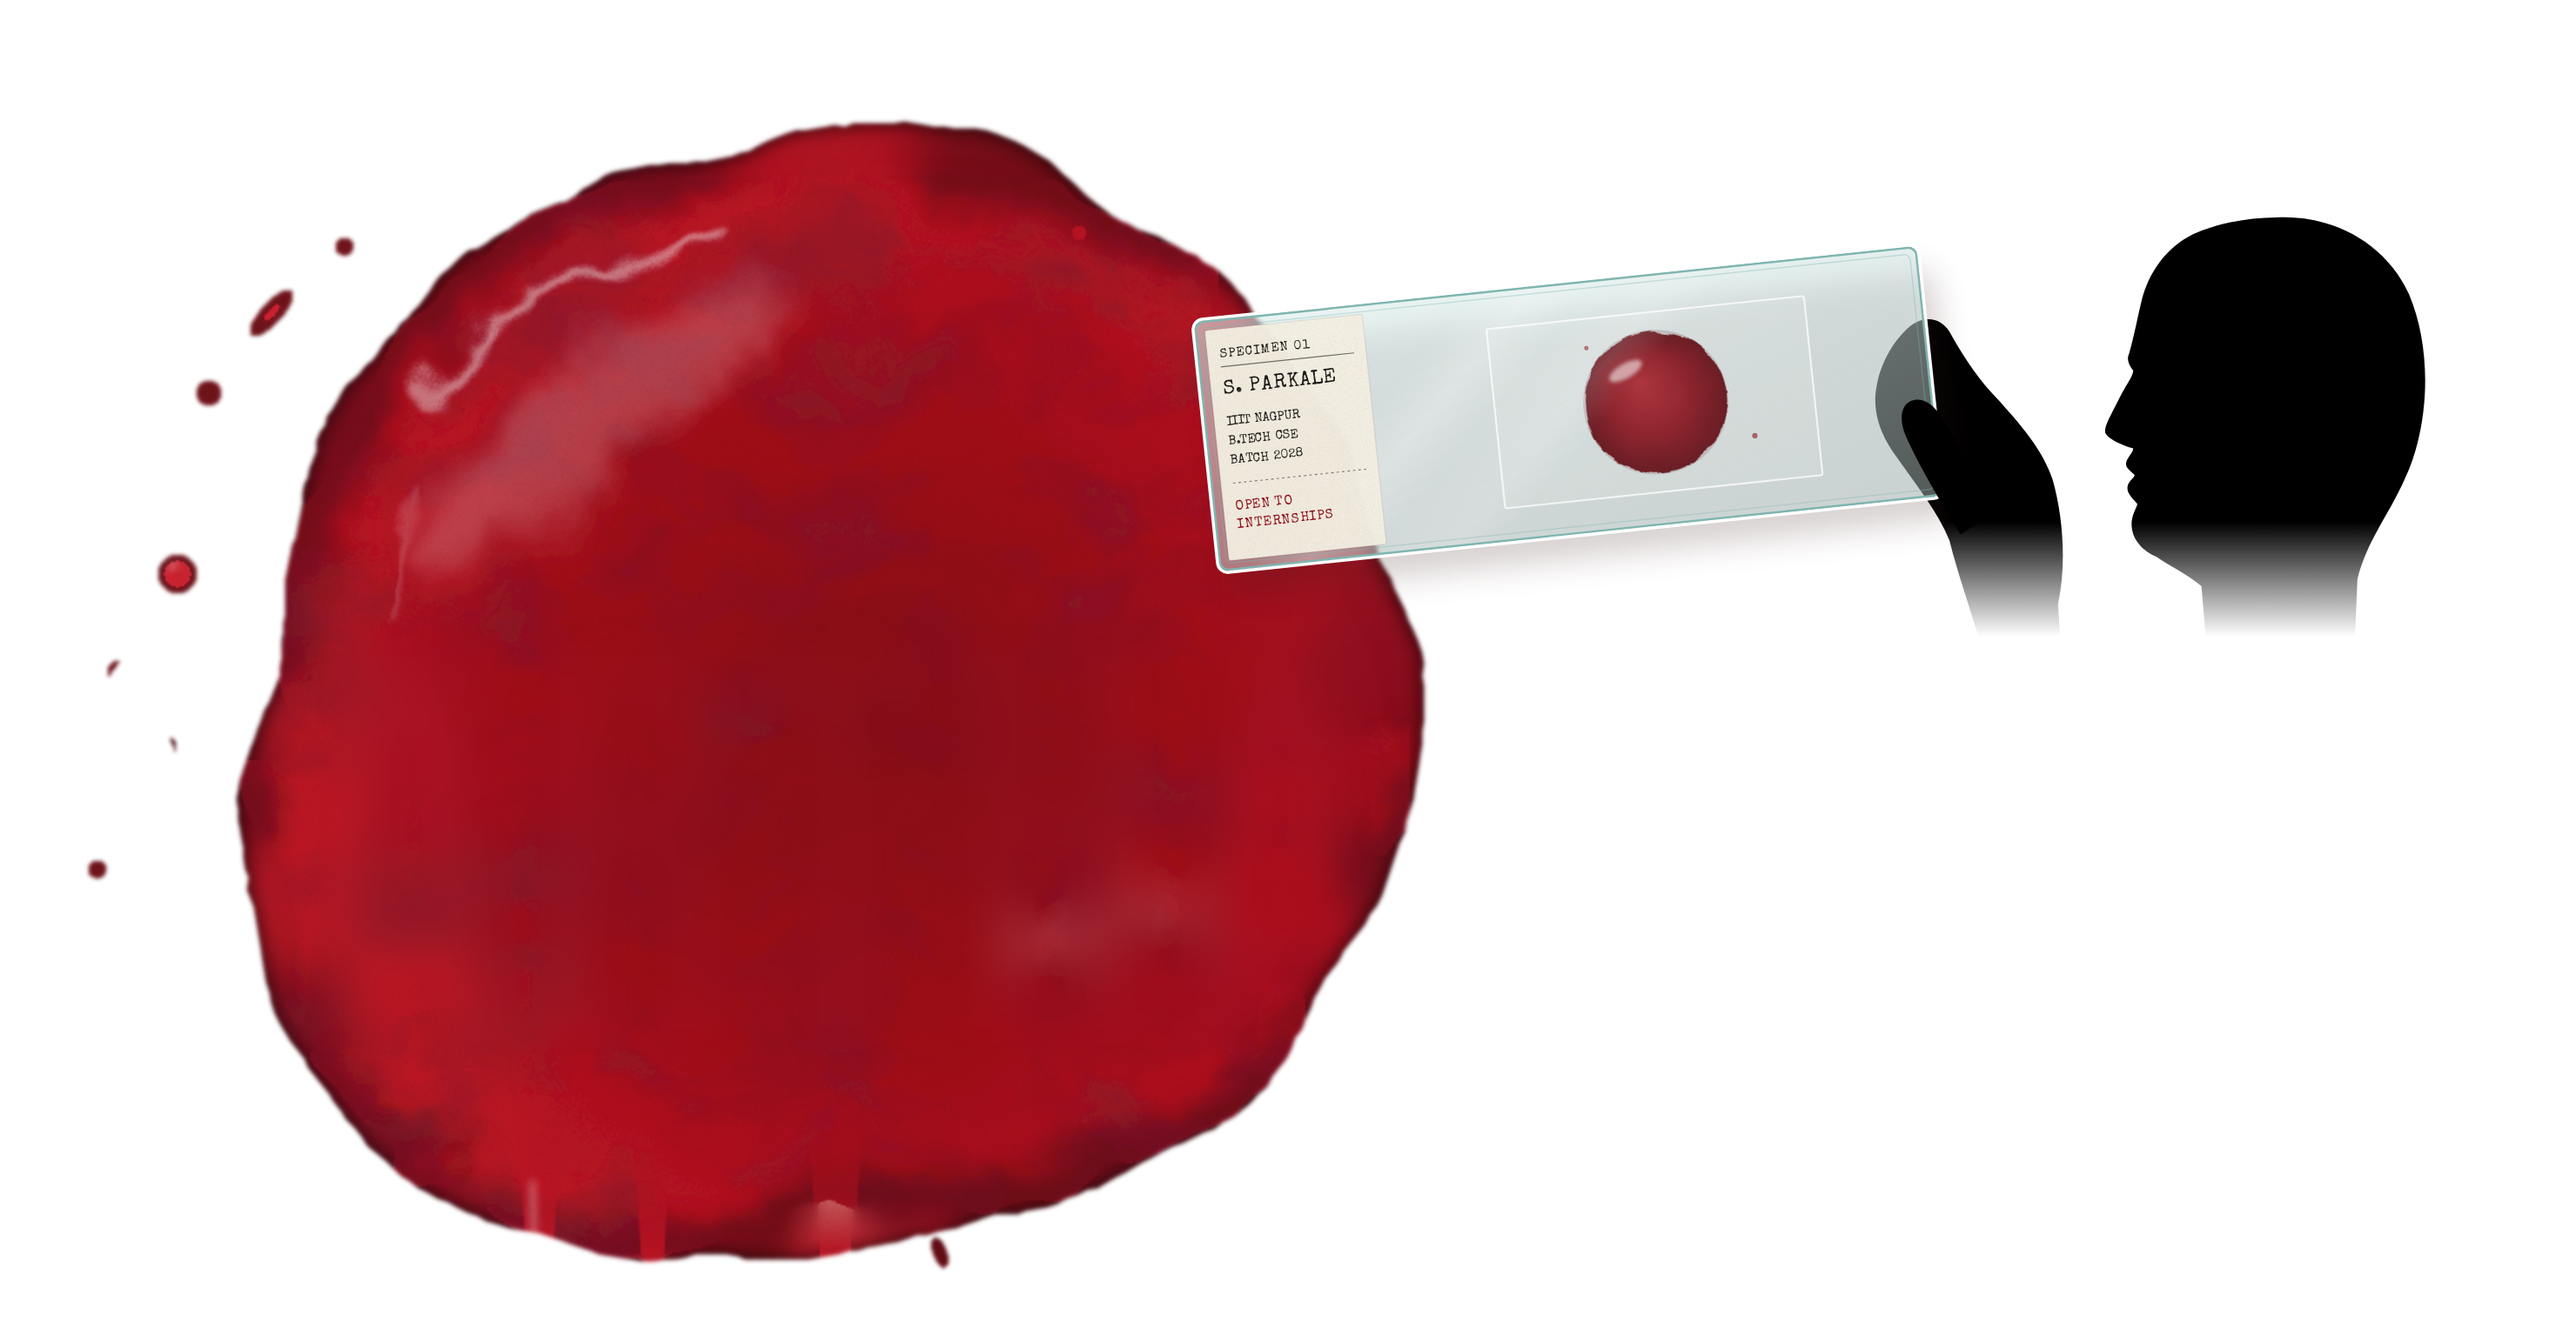
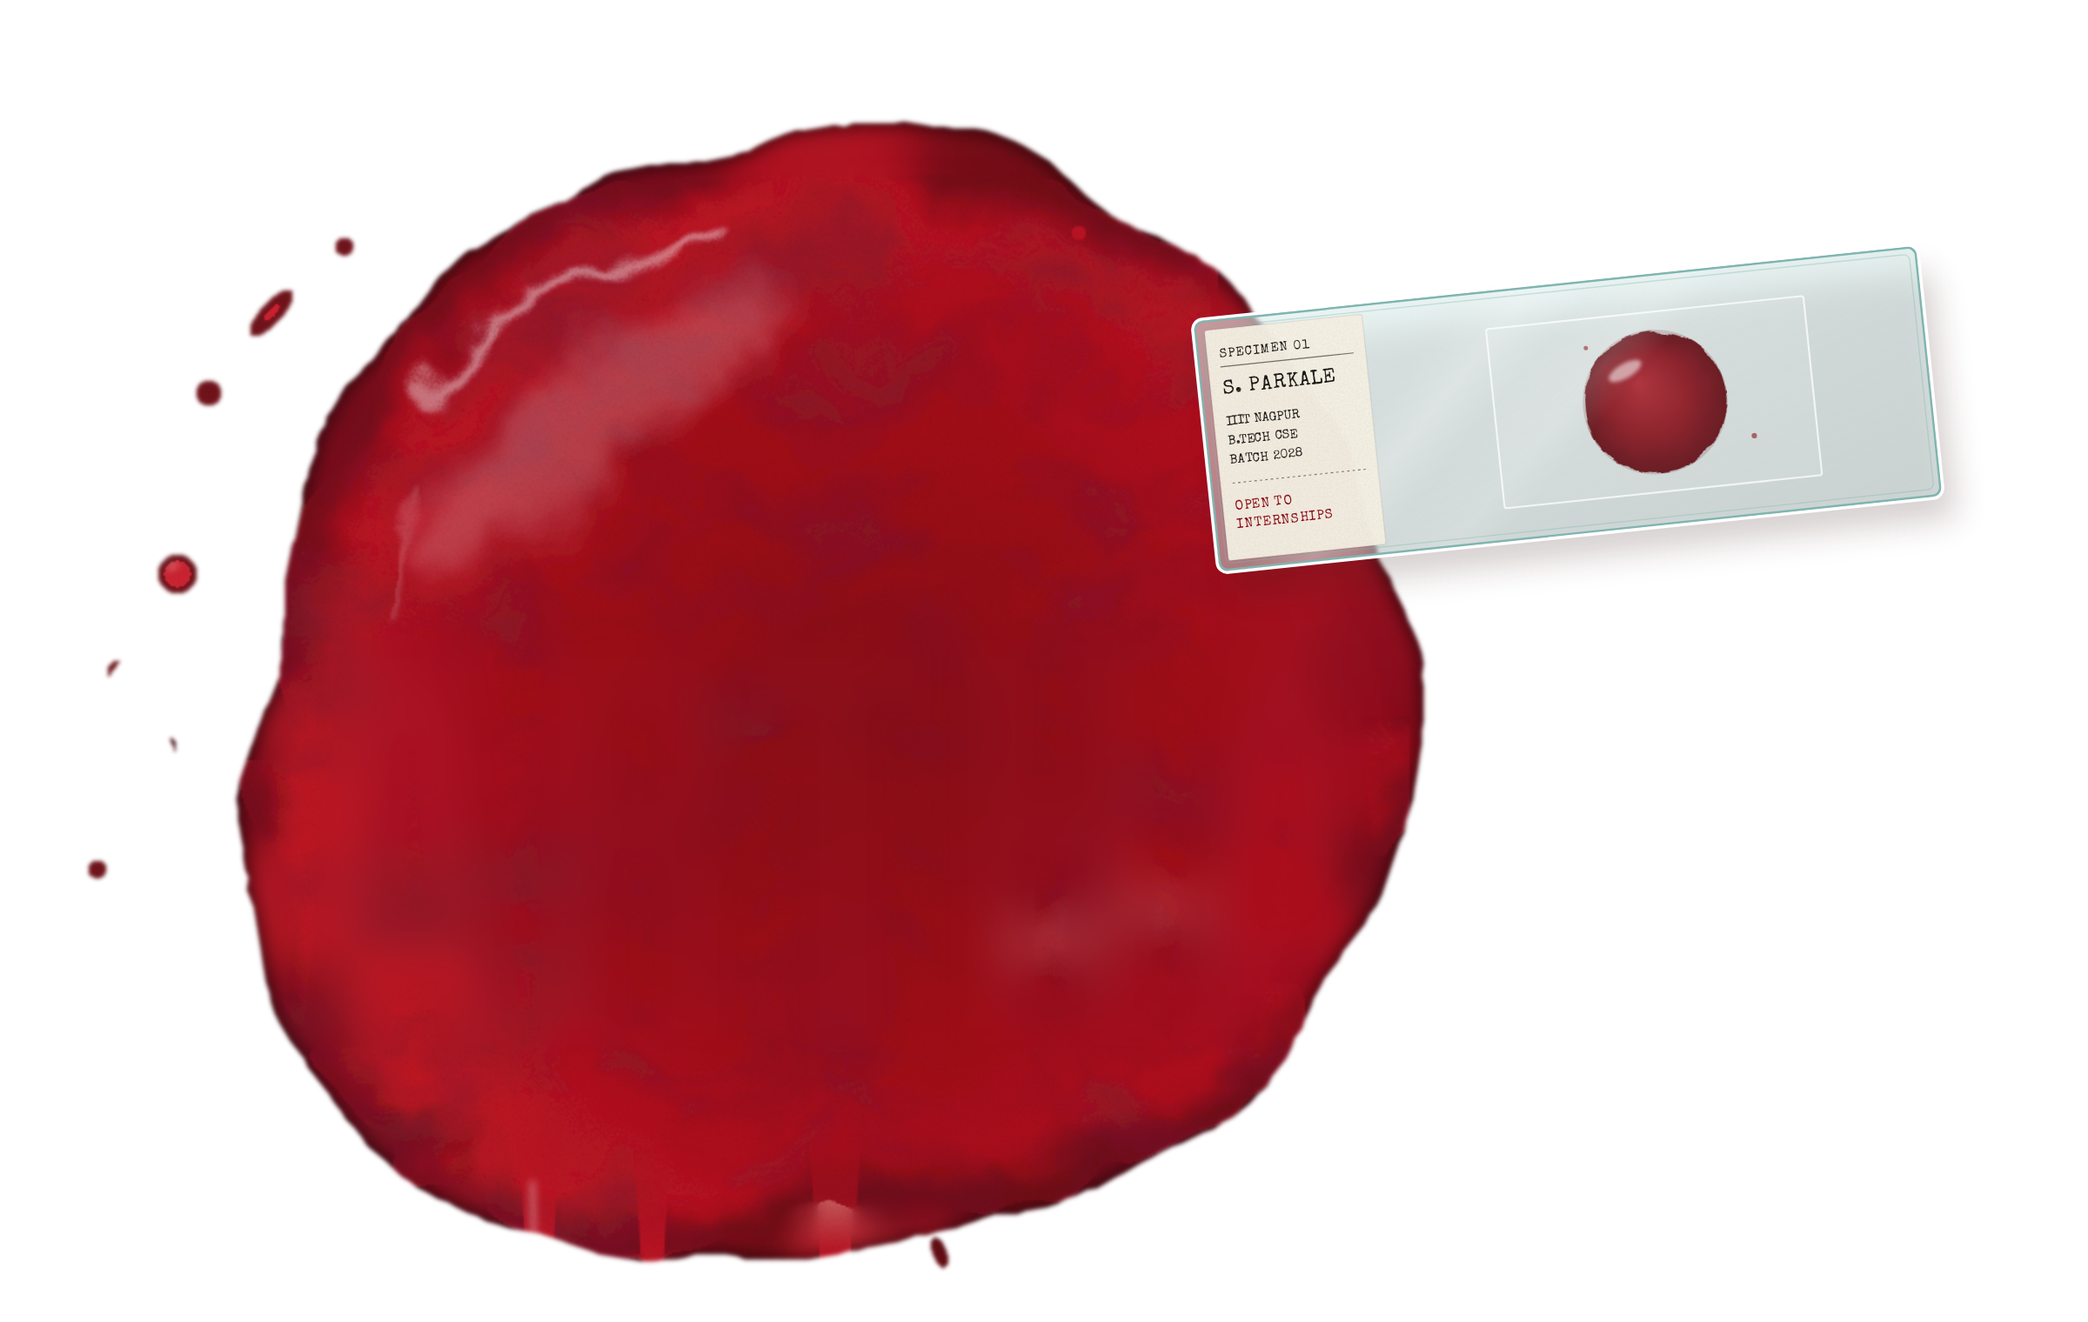
feat(art): remove the silhouetted figure from the hero artwork

diff --git a/src/lib/bloodArt.js b/src/lib/bloodArt.js
@@ -3,7 +3,7 @@
 // At a 1900px-wide hero the art is drawn at scale 1, so 1 unit = 1 CSS px.
 
 export const ART = {
-  width: 1480,
+  width: 1200,
   height: 760,
   // where the hero name sits in the art: left of its first line, top of the h1, Anton line box
   nameX: 56,
@@ -16,10 +16,10 @@ export const ART = {
   // the slide's centre, used to aim the discovery sweep
   slideCx: 901,
   slideCy: 235,
-  // the figure and slide must stay inside the hero; the pool may bleed off the left edge
+  // the slide must stay inside the hero; the pool may bleed off the left edge
   fitMinX: 446,
-  maxX: 1420,
-  minY: 120,
+  maxX: 1150,
+  minY: 125,
 }
 
 export const ART_SRC = { webp: '/art/blood-slide.webp', png: '/art/blood-slide.png' }

diff --git a/README.md b/README.md
@@ -63,9 +63,9 @@ The Playwright scripts need a browser once: `npx playwright install chromium`.
 
 ## Hidden hero artwork (blood reveal)
 
-A blood pool and a black silhouetted figure holding a microscope slide are hidden behind the hero name. Moving the pointer (or dragging a finger sideways) wipes them into view along a soft trail that fades out again. On the first visit of a session, one short automatic sweep shows the effect after the intro.
+A blood pool and a microscope slide are hidden behind the hero name. Moving the pointer (or dragging a finger sideways) wipes them into view along a soft trail that fades out again. On the first visit of a session, one short automatic sweep shows the effect after the intro.
 
-- **Source:** `art/blood-slide.svg`, an editable SVG with the slide and the figure (an original silhouette with no facial detail, fading out above the name). The pool is `art/blood-pool.png`, lifted from the draft mock-up with `python3 scripts/extract-blood-pool.py <draft.png> art/blood-pool.png` (needs `opencv-python` and `numpy`). The slide label's text is filled from `src/data/profile.js` at render time, so it never needs editing by hand. Geometry the hero relies on (pool centre and radius, slide centre, visible extent) is in `src/lib/bloodArt.js`; update it if you move things in the SVG.
+- **Source:** `art/blood-slide.svg`, an editable SVG with the slide. The pool is `art/blood-pool.png`, lifted from the draft mock-up with `python3 scripts/extract-blood-pool.py <draft.png> art/blood-pool.png` (needs `opencv-python` and `numpy`). The slide label's text is filled from `src/data/profile.js` at render time, so it never needs editing by hand. Geometry the hero relies on (pool centre and radius, slide centre, visible extent) is in `src/lib/bloodArt.js`; update it if you move things in the SVG.
 - **Regenerate:** `npm run art` renders `public/art/blood-slide.webp` (transparent, 2960×1520, about 140 KB) and a PNG fallback with Playwright. It also prints the contrast of the black name over the pool (the draft's deep red gives about 2.3–2.6:1, below the 3:1 large-text guideline, while the trail is showing) and warns if the WebP exceeds 250 KB. `--preview out.png` saves the art over the hero paper colour.
 - **Tune the trail:** constants at the top of `src/hooks/useTrailMask.js`:
   - `BRUSH_RADIUS` (140 px at a 1440 px hero; scales with width, clamped by `BRUSH_MIN`/`BRUSH_MAX`, 90–170), `BRUSH_JITTER`, `SPEED_BOOST`
